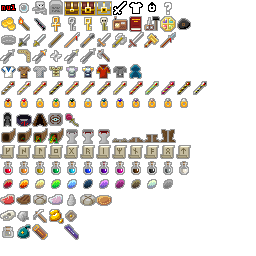
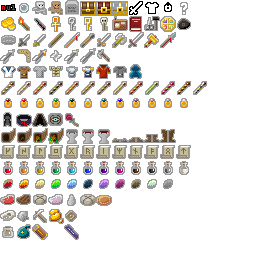
v0.2.2: gave heroes remains a unique heap type & sprite

Changed region(s): [[0.1875, 0.0, 0.75, 0.0625]]

diff --git a/src/com/shatteredpixel/shatteredpixeldungeon/windows/WndInfoItem.java b/src/com/shatteredpixel/shatteredpixeldungeon/windows/WndInfoItem.java
@@ -30,18 +30,22 @@ import com.shatteredpixel.shatteredpixeldungeon.utils.Utils;
 
 public class WndInfoItem extends Window {
 	
-	private static final String TXT_CHEST			= "Chest";
-	private static final String TXT_LOCKED_CHEST	= "Locked chest";
-	private static final String TXT_CRYSTAL_CHEST	= "Crystal chest";
-	private static final String TXT_TOMB			= "Tomb";
-	private static final String TXT_SKELETON		= "Skeletal remains";
+	private static final String TTL_CHEST           = "Chest";
+	private static final String TTL_LOCKED_CHEST	= "Locked chest";
+	private static final String TTL_CRYSTAL_CHEST	= "Crystal chest";
+	private static final String TTL_TOMB			= "Tomb";
+	private static final String TTL_SKELETON		= "Skeletal remains";
+    private static final String TTL_REMAINS 		= "Heroes remains";
 	private static final String TXT_WONT_KNOW		= "You won't know what's inside until you open it!";
 	private static final String TXT_NEED_KEY		= TXT_WONT_KNOW + " But to open it you need a golden key.";
 	private static final String TXT_INSIDE			= "You can see %s inside, but to open the chest you need a golden key.";
 	private static final String TXT_OWNER	= 
 		"This ancient tomb may contain something useful, " +
 		"but its owner will most certainly object to checking.";
-	private static final String TXT_REMAINS	= 
+    private static final String TXT_SKELETON =
+        "This is all that's left of some unfortunate adventurer. " +
+        "Maybe it's worth checking for any valuables.";
+	private static final String TXT_REMAINS =
 		"This is all that's left from one of your predecessors. " +
 		"Maybe it's worth checking for any valuables.";
 	
@@ -71,22 +75,25 @@ public class WndInfoItem extends Window {
 			String info;
 			
 			if (heap.type == Type.CHEST) {
-				title = TXT_CHEST;
+				title = TTL_CHEST;
 				info = TXT_WONT_KNOW;
 			} else if (heap.type == Type.TOMB) {
-				title = TXT_TOMB;
+				title = TTL_TOMB;
 				info = TXT_OWNER;
 			} else if (heap.type == Type.SKELETON) {
-				title = TXT_SKELETON;
-				info = TXT_REMAINS;
+                title = TTL_SKELETON;
+                info = TXT_SKELETON;
+            } else if (heap.type == Type.REMAINS) {
+                title = TTL_REMAINS;
+                info = TXT_REMAINS;
 			} else if (heap.type == Type.CRYSTAL_CHEST) {
-				title = TXT_CRYSTAL_CHEST;
+				title = TTL_CRYSTAL_CHEST;
                 if (heap.peek() instanceof Artifact)
                     info = Utils.format( TXT_INSIDE, "an artifact" );
                 else
                     info = Utils.format( TXT_INSIDE, Utils.indefinite( heap.peek().name() ) );
 			} else {
-				title = TXT_LOCKED_CHEST;
+				title = TTL_LOCKED_CHEST;
 				info = TXT_NEED_KEY;
 			}
 			

diff --git a/src/com/shatteredpixel/shatteredpixeldungeon/ui/ItemSlot.java b/src/com/shatteredpixel/shatteredpixeldungeon/ui/ItemSlot.java
@@ -17,20 +17,19 @@
  */
 package com.shatteredpixel.shatteredpixeldungeon.ui;
 
-import com.shatteredpixel.shatteredpixeldungeon.items.keys.IronKey;
-import com.shatteredpixel.shatteredpixeldungeon.items.keys.Key;
-import com.shatteredpixel.shatteredpixeldungeon.items.keys.SkeletonKey;
-import com.watabou.noosa.BitmapText;
-import com.watabou.noosa.ui.Button;
 import com.shatteredpixel.shatteredpixeldungeon.Dungeon;
 import com.shatteredpixel.shatteredpixeldungeon.items.Item;
 import com.shatteredpixel.shatteredpixeldungeon.items.armor.Armor;
+import com.shatteredpixel.shatteredpixeldungeon.items.keys.Key;
+import com.shatteredpixel.shatteredpixeldungeon.items.keys.SkeletonKey;
 import com.shatteredpixel.shatteredpixeldungeon.items.weapon.Weapon;
 import com.shatteredpixel.shatteredpixeldungeon.items.weapon.melee.MeleeWeapon;
 import com.shatteredpixel.shatteredpixeldungeon.scenes.PixelScene;
 import com.shatteredpixel.shatteredpixeldungeon.sprites.ItemSprite;
 import com.shatteredpixel.shatteredpixeldungeon.sprites.ItemSpriteSheet;
 import com.shatteredpixel.shatteredpixeldungeon.utils.Utils;
+import com.watabou.noosa.BitmapText;
+import com.watabou.noosa.ui.Button;
 
 public class ItemSlot extends Button {
 
@@ -68,6 +67,9 @@ public class ItemSlot extends Button {
 	public static final Item SKELETON = new Item() {
 		public int image() { return ItemSpriteSheet.BONES; };
 	};
+    public static final Item REMAINS = new Item() {
+        public int image() { return ItemSpriteSheet.REMAINS; };
+    };
 	
 	public ItemSlot() {
 		super();

diff --git a/src/com/shatteredpixel/shatteredpixeldungeon/levels/RegularLevel.java b/src/com/shatteredpixel/shatteredpixeldungeon/levels/RegularLevel.java
@@ -17,11 +17,6 @@
  */
 package com.shatteredpixel.shatteredpixeldungeon.levels;
 
-import java.util.ArrayList;
-import java.util.Collection;
-import java.util.HashSet;
-import java.util.List;
-
 import com.shatteredpixel.shatteredpixeldungeon.Bones;
 import com.shatteredpixel.shatteredpixeldungeon.Dungeon;
 import com.shatteredpixel.shatteredpixeldungeon.actors.Actor;
@@ -34,11 +29,16 @@ import com.shatteredpixel.shatteredpixeldungeon.items.Item;
 import com.shatteredpixel.shatteredpixeldungeon.items.rings.RingOfWealth;
 import com.shatteredpixel.shatteredpixeldungeon.items.scrolls.ScrollOfUpgrade;
 import com.shatteredpixel.shatteredpixeldungeon.levels.Room.Type;
-import com.shatteredpixel.shatteredpixeldungeon.levels.painters.*;
+import com.shatteredpixel.shatteredpixeldungeon.levels.painters.Painter;
 import com.watabou.utils.Bundle;
 import com.watabou.utils.Graph;
 import com.watabou.utils.Random;
 import com.watabou.utils.Rect;
+
+import java.util.ArrayList;
+import java.util.Collection;
+import java.util.HashSet;
+import java.util.List;
 
 public abstract class RegularLevel extends Level {
 
@@ -632,7 +632,7 @@ public abstract class RegularLevel extends Level {
 		
 		Item item = Bones.get();
 		if (item != null) {
-			drop( item, randomDropCell() ).type = Heap.Type.SKELETON;
+			drop( item, randomDropCell() ).type = Heap.Type.REMAINS;
 		}
 	}
 	

diff --git a/src/com/shatteredpixel/shatteredpixeldungeon/levels/PrisonBossLevel.java b/src/com/shatteredpixel/shatteredpixeldungeon/levels/PrisonBossLevel.java
@@ -17,9 +17,6 @@
  */
 package com.shatteredpixel.shatteredpixeldungeon.levels;
 
-import java.util.List;
-
-import com.watabou.noosa.Scene;
 import com.shatteredpixel.shatteredpixeldungeon.Assets;
 import com.shatteredpixel.shatteredpixeldungeon.Bones;
 import com.shatteredpixel.shatteredpixeldungeon.Dungeon;
@@ -34,10 +31,13 @@ import com.shatteredpixel.shatteredpixeldungeon.items.keys.SkeletonKey;
 import com.shatteredpixel.shatteredpixeldungeon.levels.Room.Type;
 import com.shatteredpixel.shatteredpixeldungeon.levels.painters.Painter;
 import com.shatteredpixel.shatteredpixeldungeon.scenes.GameScene;
+import com.watabou.noosa.Scene;
 import com.watabou.utils.Bundle;
 import com.watabou.utils.Graph;
 import com.watabou.utils.Point;
 import com.watabou.utils.Random;
+
+import java.util.List;
 
 public class PrisonBossLevel extends RegularLevel {
 
@@ -297,7 +297,7 @@ public class PrisonBossLevel extends RegularLevel {
 			do {
 				pos = roomEntrance.random();
 			} while (pos == entrance || map[pos] == Terrain.SIGN);
-			drop( item, pos ).type = Heap.Type.SKELETON;
+			drop( item, pos ).type = Heap.Type.REMAINS;
 		}
 	}
 

diff --git a/src/com/shatteredpixel/shatteredpixeldungeon/levels/SewerBossLevel.java b/src/com/shatteredpixel/shatteredpixeldungeon/levels/SewerBossLevel.java
@@ -17,10 +17,6 @@
  */
 package com.shatteredpixel.shatteredpixeldungeon.levels;
 
-import java.util.ArrayList;
-import java.util.List;
-
-import com.watabou.noosa.Scene;
 import com.shatteredpixel.shatteredpixeldungeon.Assets;
 import com.shatteredpixel.shatteredpixeldungeon.Bones;
 import com.shatteredpixel.shatteredpixeldungeon.Dungeon;
@@ -31,9 +27,13 @@ import com.shatteredpixel.shatteredpixeldungeon.items.Heap;
 import com.shatteredpixel.shatteredpixeldungeon.items.Item;
 import com.shatteredpixel.shatteredpixeldungeon.levels.Room.Type;
 import com.shatteredpixel.shatteredpixeldungeon.scenes.GameScene;
+import com.watabou.noosa.Scene;
 import com.watabou.utils.Bundle;
 import com.watabou.utils.Graph;
 import com.watabou.utils.Random;
+
+import java.util.ArrayList;
+import java.util.List;
 
 public class SewerBossLevel extends RegularLevel {
 
@@ -232,7 +232,7 @@ public class SewerBossLevel extends RegularLevel {
 			do {
 				pos = roomEntrance.random();
 			} while (pos == entrance || map[pos] == Terrain.SIGN);
-			drop( item, pos ).type = Heap.Type.SKELETON;
+			drop( item, pos ).type = Heap.Type.REMAINS;
 		}
 	}
 	

diff --git a/src/com/shatteredpixel/shatteredpixeldungeon/sprites/ItemSpriteSheet.java b/src/com/shatteredpixel/shatteredpixeldungeon/sprites/ItemSpriteSheet.java
@@ -43,15 +43,16 @@ public class ItemSpriteSheet {
     public static final int DEWDROP	    = ROW1+1;
     // Heaps (containers)
     public static final int BONES			= ROW1+2;
-    public static final int TOMB			= ROW1+3;
-    public static final int CHEST			= ROW1+4;
-    public static final int LOCKED_CHEST	= ROW1+5;
-    public static final int CRYSTAL_CHEST	= ROW1+6;
+    public static final int REMAINS         = ROW1+3;
+    public static final int TOMB			= ROW1+4;
+    public static final int CHEST			= ROW1+5;
+    public static final int LOCKED_CHEST	= ROW1+6;
+    public static final int CRYSTAL_CHEST	= ROW1+7;
     // Placeholders
-    public static final int WEAPON	= ROW1+7;
-    public static final int ARMOR	= ROW1+8;
-    public static final int RING	= ROW1+9;
-    public static final int SMTH	= ROW1+10;
+    public static final int WEAPON	= ROW1+8;
+    public static final int ARMOR	= ROW1+9;
+    public static final int RING	= ROW1+10;
+    public static final int SMTH	= ROW1+11;
 
     //Row Two: Miscellaneous single use items
     public static final int GOLD	= ROW2+0;

diff --git a/src/com/shatteredpixel/shatteredpixeldungeon/levels/LastShopLevel.java b/src/com/shatteredpixel/shatteredpixeldungeon/levels/LastShopLevel.java
@@ -17,9 +17,6 @@
  */
 package com.shatteredpixel.shatteredpixeldungeon.levels;
 
-import java.util.List;
-
-import com.watabou.noosa.Scene;
 import com.shatteredpixel.shatteredpixeldungeon.Assets;
 import com.shatteredpixel.shatteredpixeldungeon.Bones;
 import com.shatteredpixel.shatteredpixeldungeon.actors.Actor;
@@ -27,8 +24,11 @@ import com.shatteredpixel.shatteredpixeldungeon.actors.mobs.npcs.Imp;
 import com.shatteredpixel.shatteredpixeldungeon.items.Heap;
 import com.shatteredpixel.shatteredpixeldungeon.items.Item;
 import com.shatteredpixel.shatteredpixeldungeon.levels.Room.Type;
+import com.watabou.noosa.Scene;
 import com.watabou.utils.Graph;
 import com.watabou.utils.Random;
+
+import java.util.List;
 
 public class LastShopLevel extends RegularLevel {
 	
@@ -170,7 +170,7 @@ public class LastShopLevel extends RegularLevel {
 			do {
 				pos = roomEntrance.random();
 			} while (pos == entrance || map[pos] == Terrain.SIGN);
-			drop( item, pos ).type = Heap.Type.SKELETON;
+			drop( item, pos ).type = Heap.Type.REMAINS;
 		}
 	}
 	

diff --git a/src/com/shatteredpixel/shatteredpixeldungeon/items/Heap.java b/src/com/shatteredpixel/shatteredpixeldungeon/items/Heap.java
@@ -56,7 +56,8 @@ public class Heap implements Bundlable {
 		LOCKED_CHEST, 
 		CRYSTAL_CHEST,
 		TOMB, 
-		SKELETON
+		SKELETON,
+        REMAINS
 	}
 	public Type type = Type.HEAP;
 	
@@ -81,6 +82,8 @@ public class Heap implements Bundlable {
 			return ItemSpriteSheet.TOMB;
 		case SKELETON:
 			return ItemSpriteSheet.BONES;
+        case REMAINS:
+            return ItemSpriteSheet.REMAINS;
 		default:
 			return 0;
 		}
@@ -96,6 +99,7 @@ public class Heap implements Bundlable {
 			Wraith.spawnAround( hero.pos );
 			break;
 		case SKELETON:
+        case REMAINS:
 			CellEmitter.center( pos ).start( Speck.factory( Speck.RATTLE ), 0.1f, 3 );
 			for (Item item : items) {
 				if (item.cursed) {

diff --git a/src/com/shatteredpixel/shatteredpixeldungeon/actors/hero/Hero.java b/src/com/shatteredpixel/shatteredpixeldungeon/actors/hero/Hero.java
@@ -658,6 +658,7 @@ public class Hero extends Char {
 					Camera.main.shake( 1, 0.5f );
 					break;
 				case SKELETON:
+                case REMAINS:
 					break;
 				default:
 					Sample.INSTANCE.play( Assets.SND_UNLOCK );
@@ -1318,7 +1319,7 @@ public class Hero extends Char {
 			}
 			
 			Heap heap = Dungeon.level.heaps.get( ((HeroAction.OpenChest)curAction).dst ); 
-			if (heap.type == Type.SKELETON) {
+			if (heap.type == Type.SKELETON || heap.type == Type.REMAINS) {
 				Sample.INSTANCE.play( Assets.SND_BONES );
 			}
 			heap.open( this );

diff --git a/src/com/shatteredpixel/shatteredpixeldungeon/ui/LootIndicator.java b/src/com/shatteredpixel/shatteredpixeldungeon/ui/LootIndicator.java
@@ -69,6 +69,7 @@ public class LootIndicator extends Tag {
                     heap.type == Heap.Type.CRYSTAL_CHEST ? ItemSlot.CRYSTAL_CHEST :
 					heap.type == Heap.Type.TOMB ? ItemSlot.TOMB :
 					heap.type == Heap.Type.SKELETON ? ItemSlot.SKELETON :
+                    heap.type == Heap.Type.REMAINS ? ItemSlot.REMAINS :
 					heap.peek();
 				if (item != lastItem || item.quantity() != lastQuantity) {
 					lastItem = item;

diff --git a/src/com/shatteredpixel/shatteredpixeldungeon/levels/CityBossLevel.java b/src/com/shatteredpixel/shatteredpixeldungeon/levels/CityBossLevel.java
@@ -159,7 +159,7 @@ public class CityBossLevel extends Level {
 					Random.IntRange( LEFT + 1, LEFT + HALL_WIDTH - 2 ) + 
 					Random.IntRange( TOP + HALL_HEIGHT + 1, TOP + HALL_HEIGHT  + CHAMBER_HEIGHT ) * WIDTH;
 			} while (pos == entrance || map[pos] == Terrain.SIGN);
-			drop( item, pos ).type = Heap.Type.SKELETON;
+			drop( item, pos ).type = Heap.Type.REMAINS;
 		}
 	}
 	

diff --git a/src/com/shatteredpixel/shatteredpixeldungeon/levels/CavesBossLevel.java b/src/com/shatteredpixel/shatteredpixeldungeon/levels/CavesBossLevel.java
@@ -201,7 +201,7 @@ public class CavesBossLevel extends Level {
 			do {
 				pos = Random.IntRange( ROOM_LEFT, ROOM_RIGHT ) + Random.IntRange( ROOM_TOP + 1, ROOM_BOTTOM ) * WIDTH;
 			} while (pos == entrance || map[pos] == Terrain.SIGN);
-			drop( item, pos ).type = Heap.Type.SKELETON;
+			drop( item, pos ).type = Heap.Type.REMAINS;
 		}
 	}
 	
